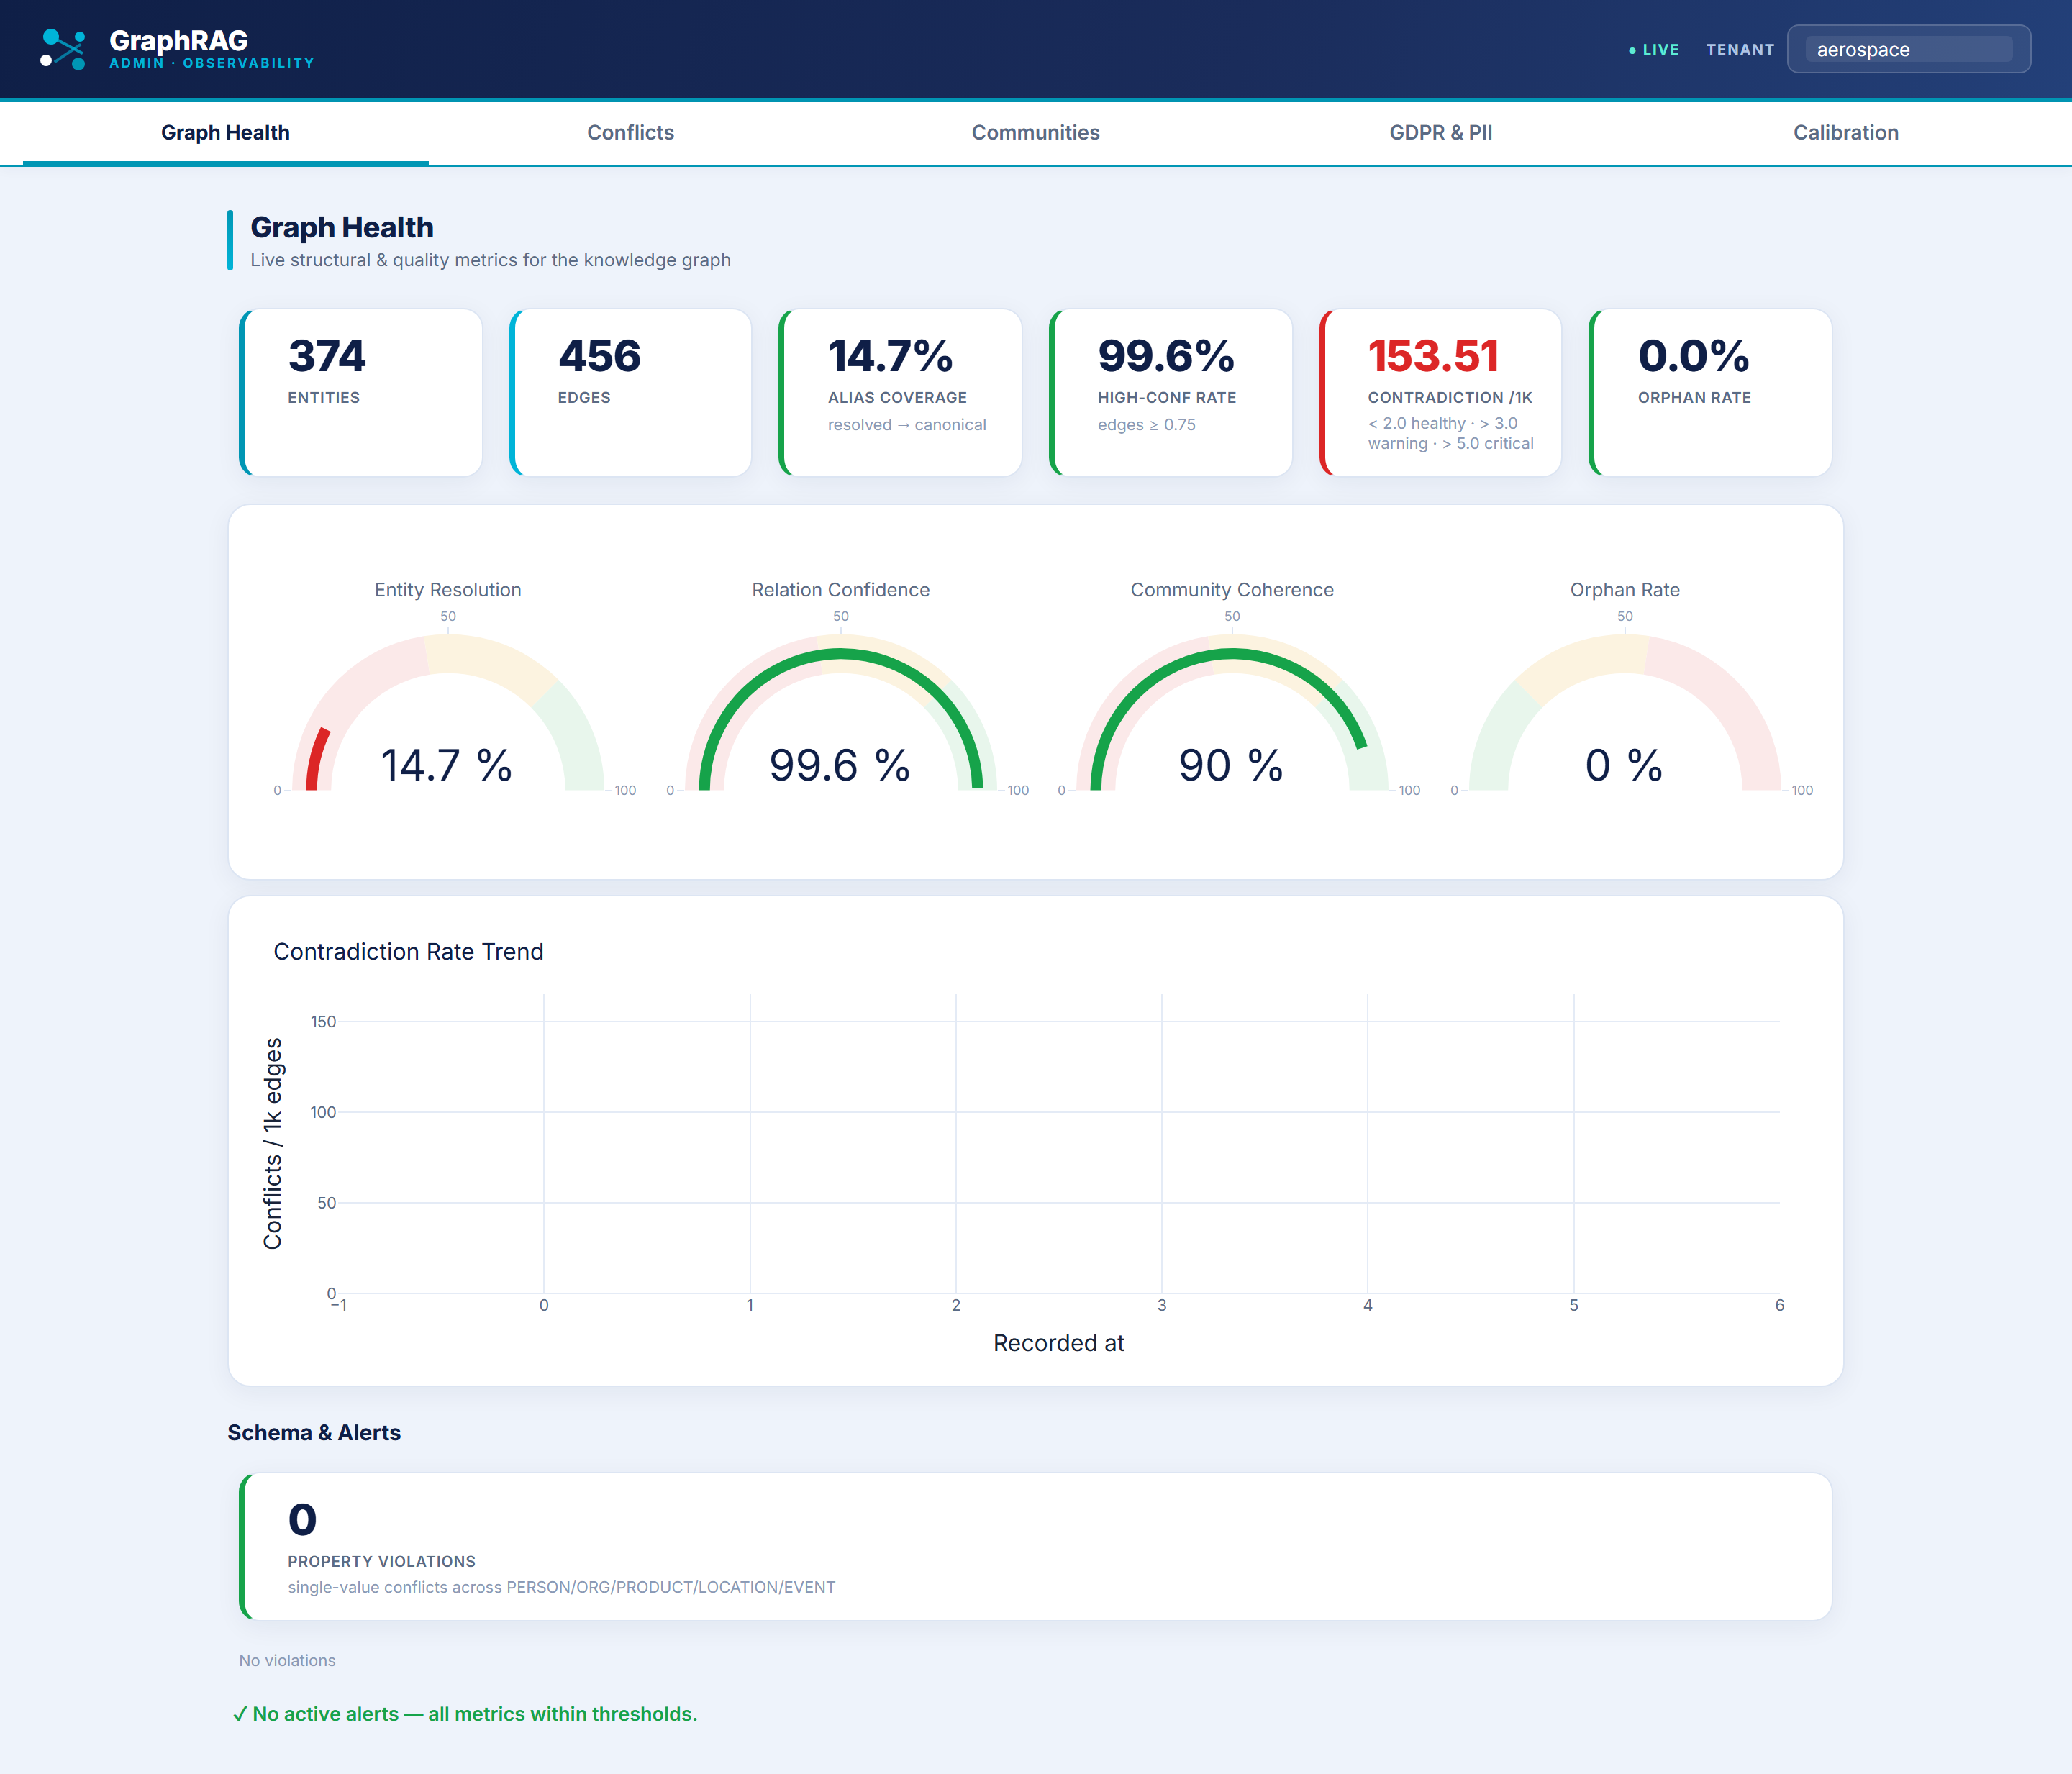
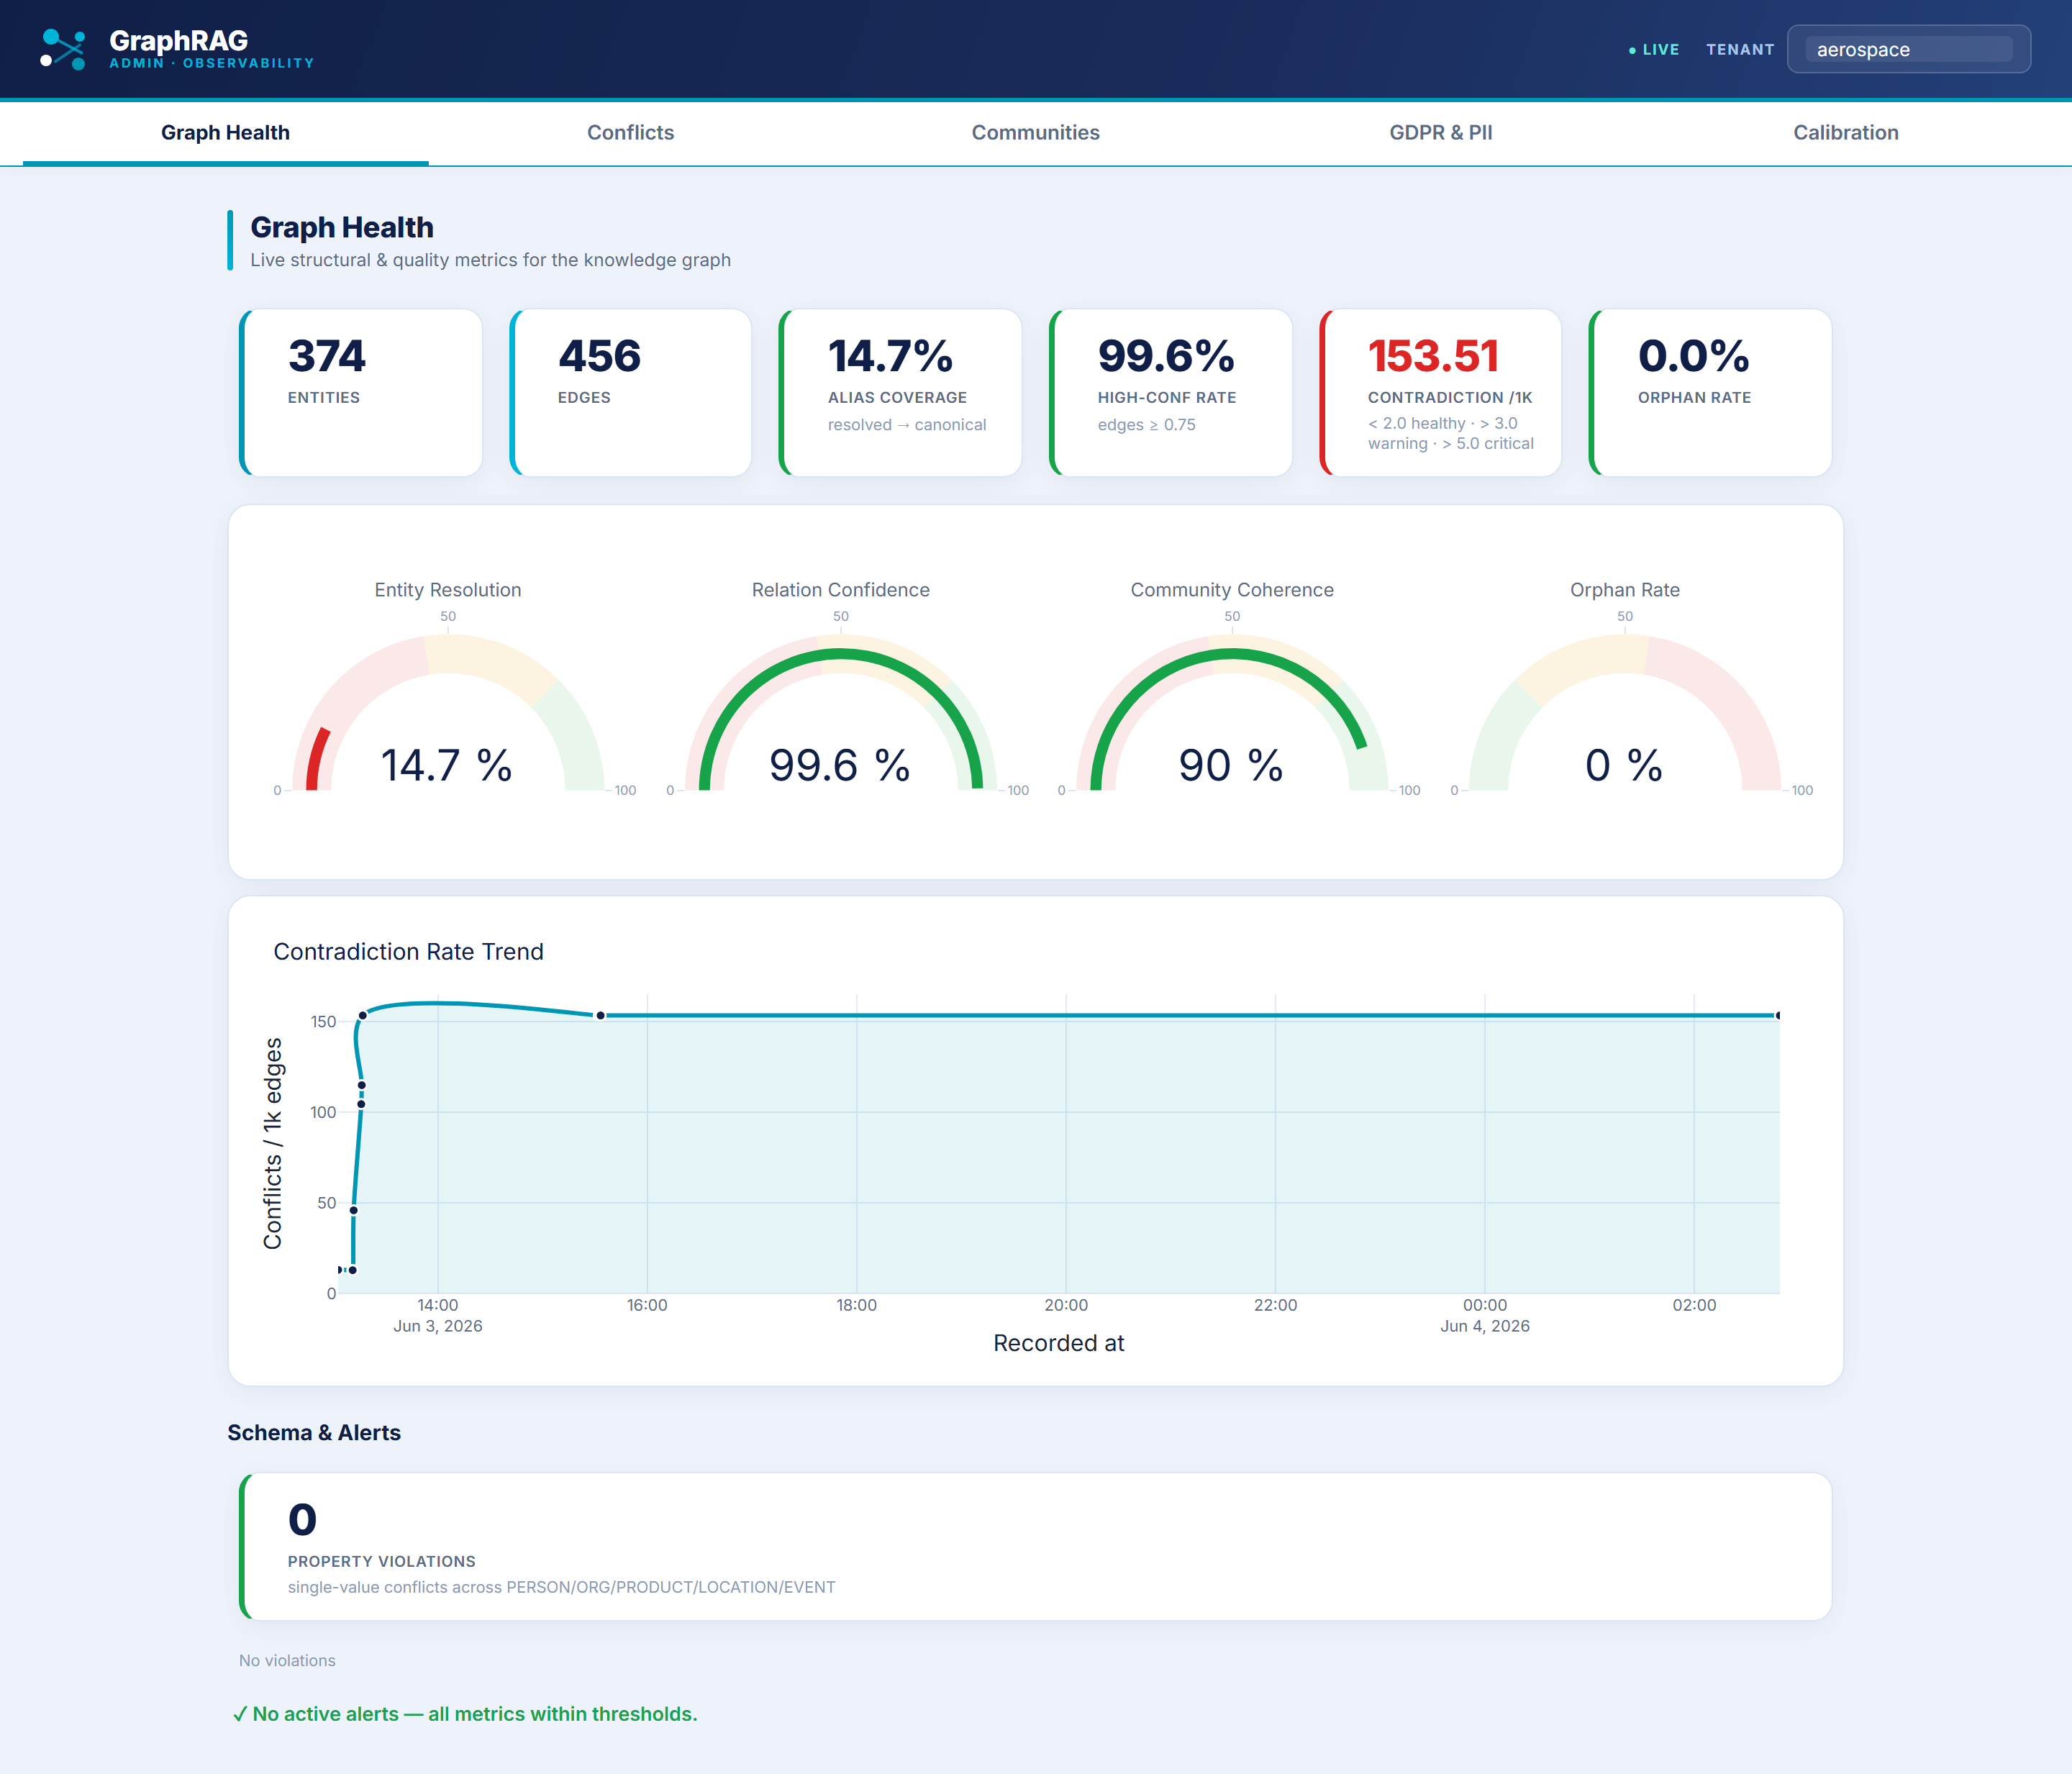
fix: contradiction trend chart - toString() on Neo4j DateTime in list_snapshots
recorded_at was returned as a Neo4j DateTime object; Plotly received it as
opaque Python object and fell back to integer indices on the x-axis.
toString() in the Cypher RETURN converts it to ISO-8601 string which Plotly
parses correctly as a time series.

Changed region(s): [[0.1562, 0.562, 0.875, 0.7494]]

diff --git a/AI knowledge graph platform/graphrag/graph/graph_snapshots.py b/AI knowledge graph platform/graphrag/graph/graph_snapshots.py
@@ -204,8 +204,8 @@ class GraphSnapshotService:
                    s.contradiction_rate AS contradiction_rate,
                    s.orphan_rate     AS orphan_rate,
                    s.community_coherence AS community_coherence,
-                   s.recorded_at     AS recorded_at,
-                   s.created_at      AS created_at
+                   toString(s.recorded_at) AS recorded_at,
+                   toString(s.created_at)  AS created_at
             ORDER BY s.created_at DESC
             LIMIT $limit
             """,